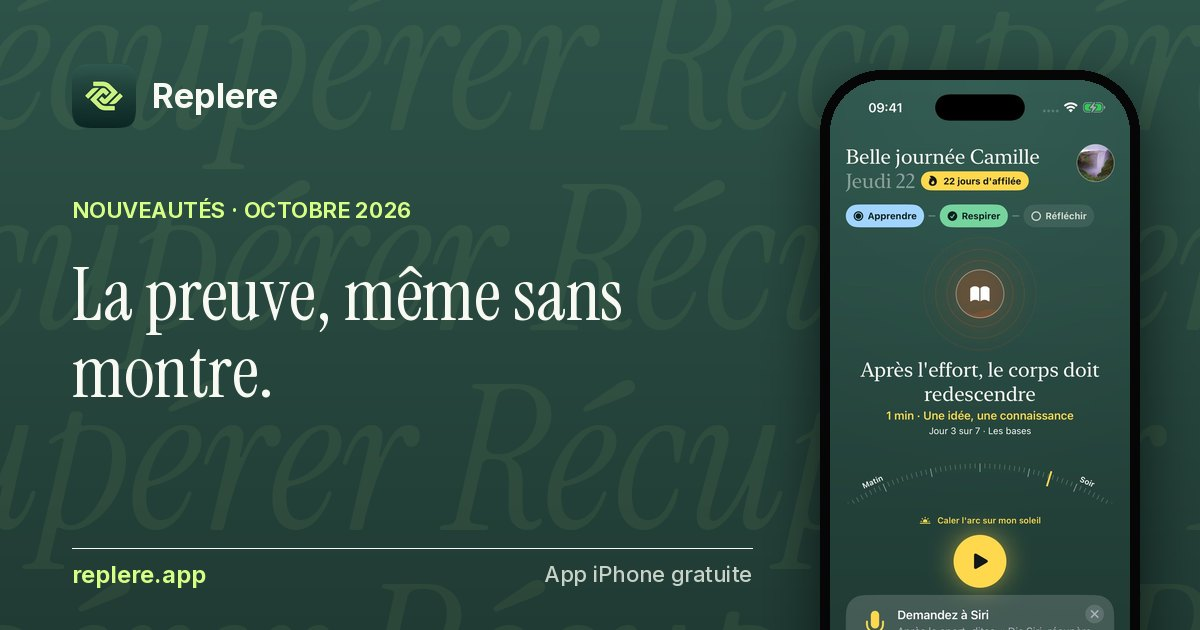
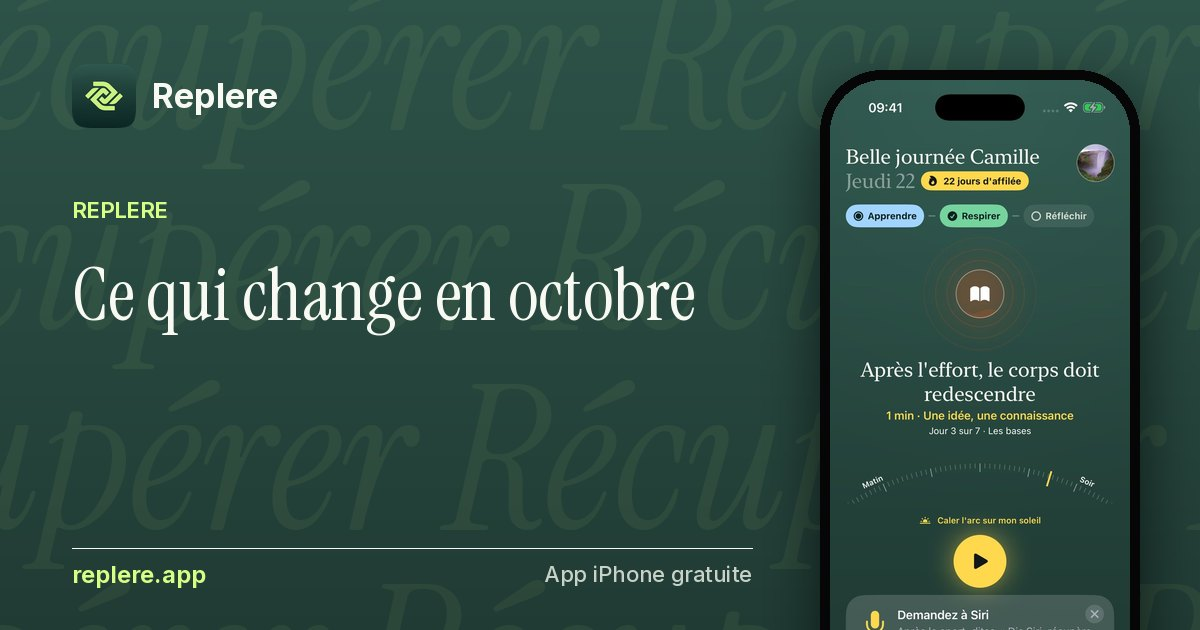
Accueil sans panneaux verts, bloc du pouls refait, page Nouveautés du fondateur
Claude-Session: https://claude.ai/code/session_01J5uW5gHnW28DdDeuBxR1rw

Changed region(s): [[0.0617, 0.4222, 0.5858, 0.5429], [0.0617, 0.3016, 0.3392, 0.3619], [0.0617, 0.5429, 0.2158, 0.6333]]

diff --git a/nouveautes.html b/nouveautes.html
@@ -4,7 +4,7 @@
 <meta charset="UTF-8">
 <meta name="viewport" content="width=device-width, initial-scale=1">
 <title>Nouveautés de Replere : le pouls au doigt, le matin, vos séances</title>
-<meta name="description" content="Ce qui arrive dans l&#x27;app en octobre 2026 : le pouls mesuré avec l&#x27;appareil photo, la carte du matin, les phrases sur vos séances, le bilan de stress, les favoris et le widget.">
+<meta name="description" content="Ce qui arrive dans l&#x27;app en octobre 2026 : le pouls mesuré avec l&#x27;appareil photo, des séances sans le son, la carte du matin, et vos propres notes relues une semaine plus tard.">
 <link rel="canonical" href="https://replere.app/nouveautes.html">
 <link rel="alternate" type="application/rss+xml" title="Guides Replere" href="https://replere.app/guides.xml">
 <meta property="og:type" content="website">
@@ -12,7 +12,7 @@
 <meta property="og:locale" content="fr_FR">
 <meta property="og:url" content="https://replere.app/nouveautes.html">
 <meta property="og:title" content="Nouveautés de Replere : le pouls au doigt, le matin, vos séances">
-<meta property="og:description" content="Ce qui arrive dans l&#x27;app en octobre 2026 : le pouls mesuré avec l&#x27;appareil photo, la carte du matin, les phrases sur vos séances, le bilan de stress, les favoris et le widget.">
+<meta property="og:description" content="Ce qui arrive dans l&#x27;app en octobre 2026 : le pouls mesuré avec l&#x27;appareil photo, des séances sans le son, la carte du matin, et vos propres notes relues une semaine plus tard.">
 <meta property="og:image" content="https://replere.app/img/apercu/nouveautes.jpg?v=6">
 <meta property="og:image:width" content="1200">
 <meta property="og:image:height" content="630">
@@ -27,7 +27,7 @@
 <link rel="preload" href="fonts/instrument-serif-400-italic.woff2" as="font" type="font/woff2" crossorigin>
 <link rel="stylesheet" href="style.css?v=20261023c">
 </head>
-<body class="home">
+<body class="help">
 <a class="skip" href="#contenu">Aller au contenu</a>
 <header>
   <div class="wrap">
@@ -37,32 +37,37 @@
 </header>
 <main id="contenu">
   <div class="wrap">
-    <p class="eyebrow">Nouveautés · octobre 2026</p>
-    <h1>La preuve, même sans montre.</h1>
-    <p class="lead">Jusqu'ici, il fallait une Apple Watch, une Garmin ou une ceinture pour voir son cœur redescendre. Cette version change ça, et ajoute ce que l'app apprend de vous, séance après séance.</p>
+    <h1>Ce qui change en octobre</h1>
+    <p class="lead">Les testeurs m'ont dit deux choses. La voix allait trop vite. Et sans montre, on ne voyait rien. Voici ce que j'ai changé.</p>
+    <p class="note">Anatole, 26 octobre 2026</p>
 
-    <div class="intents">
-      <div class="tile t-mint"><span class="tag">1 · Le pouls au doigt</span><h3>Trente secondes, l'objectif, le flash</h3><p>Sans montre, posez l'index sur l'appareil photo arrière avant la séance, puis après. Le flash éclaire le doigt, l'app lit le pouls dans la couleur de la peau, et vous voyez de combien votre cœur est redescendu. Une estimation, pas une mesure médicale, mais la vôtre.</p></div>
-      <div class="tile t-blue"><span class="tag">2 · Ce matin</span><h3>Ce que votre corps dit au réveil</h3><p>Avec une montre qui écrit dans Apple Santé, l'accueil compare votre nuit, votre cœur au repos et votre variabilité à vos quatorze derniers jours. Reposé, comme d'habitude, ou à ménager, avec un conseil pour la journée. Jamais une note sur 100.</p></div>
-      <div class="tile t-lilac"><span class="tag">3 · Vos séances parlent</span><h3>Trois phrases, fondées sur vous</h3><p>« Vos séances du soir font redescendre votre cœur de 7 bpm de plus que celles de l'après-midi. » L'app compare vos propres séances entre elles et ne parle que quand l'écart dépasse le bruit d'un capteur. Chaque phrase dit sur combien de séances elle repose.</p></div>
-      <div class="tile t-orange"><span class="tag">4 · Le bilan</span><h3>Huit questions, une fois par mois</h3><p>Stress, sommeil, récupération du corps. Un bilan au départ, un autre un mois plus tard, et les flèches entre les deux. Le bilan oriente aussi la séance proposée : si le sommeil gêne, la séance du soir vient plus tôt.</p></div>
-      <div class="tile t-pink"><span class="tag">5 · Le reste</span><h3>Favoris, widget, prénom</h3><p>Récents et Favoris en tête d'Explorer. Un widget d'écran d'accueil avec la séance du jour et la série. Les écrans chargés rangés en onglets. L'onglet Moi qui porte votre prénom. Et une seule couleur d'action, celle du logo.</p></div>
-    </div>
+    <h2>Le pouls, même sans montre</h2>
+    <p>Avant la séance, vous posez l'index sur l'appareil photo arrière pendant trente secondes. Le flash éclaire le doigt et l'app lit le pouls dans la couleur de la peau. Vous recommencez après la séance, et vous voyez de combien le cœur est redescendu.</p>
+    <p>C'est le principe des oxymètres de doigt. Au repos, l'écart avec un capteur de référence se compte en quelques battements. Assez pour comparer un avant et un après, pas pour poser un chiffre médical. Aucune image n'est gardée : chaque image devient une moyenne de couleur, puis disparaît.</p>
 
-    <h2>Pourquoi le pouls par l'appareil photo</h2>
-    <p>La plupart des gens respirent sans montre au poignet. Or la promesse de Replere tient à une chose qui se voit : le cœur qui redescend. La photopléthysmographie, le principe des oxymètres de doigt, permet de lire le pouls avec un appareil photo et un flash. Au repos, l'écart avec un capteur de référence se compte en quelques battements dans les études publiées. C'est assez pour comparer un avant et un après, pas pour poser un chiffre absolu, et l'app le dit.</p>
-    <p>Aucune image n'est enregistrée ni envoyée. Chaque image est réduite à une moyenne de couleur, puis oubliée.</p>
+    <h2>Des séances sans le son</h2>
+    <p>Six séances d'une à trois minutes, les yeux ouverts, guidées par le texte et par des vibrations qui donnent le rythme du souffle. Debout après la course. Au bureau avant un rendez-vous. Dans la cuisine entre deux choses. Dans le métro. Avant un contrôle. Le soir sans réveiller personne.</p>
+    <p>Je les ai écrites parce que la plupart des moments de stress arrivent quand on ne peut ni fermer les yeux ni mettre un casque.</p>
 
-    <h2>Ce qui ne change pas</h2>
-    <div class="article"><div><div class="n">Toujours</div><h2>Vos données restent sur votre iPhone</h2><p>Le sommeil et la variabilité lus dans Apple Santé pour la carte du matin ne quittent pas l'appareil, comme le reste. <a href="confidentialite.html">La politique de confidentialité</a> décrit exactement ce qui est lu.</p></div></div>
-    <div class="article"><div><div class="n">Toujours</div><h2>Les séances sont gratuites</h2><p>Les nouveautés de cette version le sont aussi.</p></div></div>
-    <div class="article"><div><div class="n">Toujours</div><h2>Pas un dispositif médical</h2><p>Replere accompagne la récupération. Elle ne remplace ni un médecin ni un sophrologue.</p></div></div>
+    <h2>Une voix plus lente</h2>
+    <p>Les voix sont en train d'être refaites. Le corps de chaque séance sera dit nettement plus lentement, avec un vrai temps de pause entre deux consignes. Le retour, à la fin, reprendra un rythme normal : c'est le signal qu'on se réveille. Et le volume sera le même d'une séance à l'autre. Les séances arrivent dans la bêta au fur et à mesure.</p>
 
-    <div class="card accent">
-      <h3>Essayer la bêta</h3>
-      <p>Ces nouveautés arrivent d'abord dans la version de test, sur TestFlight, l'app de test d'Apple.</p>
-      <a class="cta" href="https://testflight.apple.com/join/Gd9Skxgv" rel="noopener">Rejoindre la bêta <span class="dot" aria-hidden="true"></span></a>
-    </div>
+    <h2>Ce que vos séances disent de vous</h2>
+    <p>Après quelques semaines, l'app compare vos propres séances entre elles. Par exemple : « Vos séances du soir font redescendre votre cœur de 7 bpm de plus que celles de l'après-midi. » Elle ne dit rien tant que l'écart reste dans le bruit d'un capteur, et chaque phrase indique sur combien de séances elle repose.</p>
+
+    <h2>Votre note, une semaine plus tard</h2>
+    <p>Après une séance, vous pouvez écrire une phrase sur ce que vous avez ressenti. Six à dix jours plus tard, elle revient sur l'accueil, avec une question. C'est un vieux principe de la sophrologie, revenir sur ce qu'on a vécu, et un principe bien établi de la mémoire : on retient ce qu'on se rappelle à intervalles.</p>
+
+    <h2>Le matin, si vous portez une montre</h2>
+    <p>L'accueil compare votre nuit, votre cœur au repos et votre variabilité cardiaque à vos quatorze derniers jours. Il dit si le corps est reposé, comme d'habitude, ou à ménager. Il n'y a pas de note sur 100. Je ne crois pas qu'une app de téléphone ait les mesures pour en donner une honnête.</p>
+
+    <h2>Et plus petit</h2>
+    <p>Le troisième temps de la journée s'appelle maintenant Retenir : une minute pour retrouver de mémoire l'idée apprise le matin. Récents et Favoris sont en tête d'Explorer. Un widget d'écran d'accueil montre la séance du jour. Les boutons ont pris la couleur du logo.</p>
+
+    <h2>Ce qui ne bouge pas</h2>
+    <p>Les séances restent gratuites. Ce que lit l'app dans Apple Santé est décrit, ligne par ligne, dans <a href="confidentialite.html">la politique de confidentialité</a>. Replere n'est pas un dispositif médical.</p>
+
+    <p>Ces nouveautés arrivent d'abord dans la bêta, sur TestFlight. <a href="https://testflight.apple.com/join/Gd9Skxgv" rel="noopener">Rejoindre la bêta</a>. Si quelque chose ne marche pas, écrivez-moi : <a href="mailto:contact@replere.app">contact@replere.app</a>.</p>
   </div>
 </main>
 <footer class="pied">

diff --git a/accueil.css b/accueil.css
@@ -72,17 +72,15 @@ body.accueil p { color: var(--texte-doux); font-size: 1.08rem; line-height: 1.65
   100% { transform: scale(0.72); opacity: 0.7; }
 }
 
-/* La vitrine : le téléphone posé devant un panneau vert sauge, comme l'écran du modèle. */
+/* La vitrine : le téléphone seul, posé sur le fond crème, avec son ombre. */
 .vitrine { position: relative; margin: clamp(56px, 8vh, 90px) auto 0; max-width: 1100px; display: flex; justify-content: center; }
-.vitrine-fond { position: absolute; left: 0; right: 0; bottom: 0; height: 62%; background: var(--sauge); border-radius: 36px; }
 .telephone {
   position: relative; width: min(330px, 70vw); border-radius: 46px; padding: 10px;
   background: var(--nuit); box-shadow: 0 40px 80px -30px rgba(10, 33, 31, 0.45);
 }
 .telephone img { display: block; width: 100%; height: auto; border-radius: 37px; }
 .vitrine.petite { margin: 0; }
-.vitrine.petite .vitrine-fond { height: 70%; }
-.vitrine.petite .telephone { width: min(300px, 70vw); margin-bottom: 36px; }
+.vitrine.petite .vitrine.petite .telephone { width: min(300px, 70vw); }
 
 /* Les blocs : une idée chacun, beaucoup d'air. */
 .bloc { padding-top: clamp(110px, 16vh, 180px); }
@@ -166,41 +164,17 @@ body.accueil .mosaique-bloc h2 { margin: 0 auto 18px; max-width: none; }
 .tuile-texte em { display: inline-block; margin-top: 6px; font-style: normal; font-size: 0.82rem; letter-spacing: 0.12em; text-transform: uppercase; border-bottom: 1px solid rgba(255,255,255,0.8); padding-bottom: 2px; }
 @media (max-width: 899px) { .tuile { height: 62vw; min-height: 260px; } .tuile.haute { height: 80vw; } }
 
-/* ── L'appareil photo : la nouveauté, sur fond vert nuit plein cadre ── */
-body.accueil main > section.camera { max-width: none; margin-top: clamp(110px, 16vh, 170px); padding-top: clamp(80px, 12vh, 130px); padding-bottom: clamp(80px, 12vh, 130px); background: var(--nuit); }
-.camera-grille { max-width: 1100px; margin: 0 auto; display: grid; gap: 56px; align-items: center; }
-@media (min-width: 900px) { .camera-grille { grid-template-columns: 1.1fr 0.9fr; gap: 80px; } }
-body.accueil .camera h2 { color: #F7F9F2; max-width: 14ch; }
-body.accueil .camera p { color: rgba(247,249,242,0.78); }
-body.accueil .camera .surtitre { color: var(--anis) !important; }
-body.accueil .camera .petit { font-size: 0.85rem !important; color: rgba(247,249,242,0.55); margin-top: 22px; }
-.camera-etapes { list-style: none; padding: 0; margin: 28px 0 0; display: grid; gap: 14px; }
-.camera-etapes li { display: grid; grid-template-columns: 34px 1fr; gap: 12px; align-items: center; color: #F7F9F2; font-size: 1.02rem; }
-.camera-etapes span { width: 34px; height: 34px; border-radius: 50%; display: grid; place-items: center; background: var(--anis); color: var(--nuit); font-weight: 700; font-size: 0.9rem; }
-
-/* Le visuel : le dos d'un iPhone, le doigt qui s'illumine à chaque battement, la mesure à côté. */
-.camera-visuel { position: relative; display: flex; justify-content: center; align-items: center; min-height: 420px; }
-.dos { position: relative; width: 210px; height: 420px; border-radius: 42px; background: linear-gradient(160deg, #2C4A43, #16302B); box-shadow: inset 0 0 0 2px rgba(255,255,255,0.08), 0 40px 80px -30px rgba(0,0,0,0.6); }
-.objectifs { position: absolute; top: 22px; left: 22px; width: 92px; height: 92px; border-radius: 26px; background: rgba(0,0,0,0.35); display: grid; grid-template-columns: 1fr 1fr; gap: 8px; padding: 10px; }
-.objectifs i { border-radius: 50%; background: radial-gradient(circle at 40% 35%, #3a5a54, #071512 70%); box-shadow: inset 0 0 0 3px #0d1f1c; }
-.objectifs i.flash { width: 16px; height: 16px; align-self: center; justify-self: center; background: #fff8d6; box-shadow: 0 0 18px 6px rgba(255,240,180,0.9); }
-.doigt { position: absolute; top: 6px; left: 2px; width: 120px; height: 150px; border-radius: 60px 60px 50px 50px; background: radial-gradient(circle at 50% 45%, #ff6b5a 0%, #d93a3a 45%, #8f1d26 100%); opacity: 0.92; animation: pouls 0.86s infinite; transform-origin: 50% 60%; }
-@keyframes pouls { 0%, 100% { filter: brightness(0.92); transform: scale(1); } 18% { filter: brightness(1.25); transform: scale(1.03); } 40% { filter: brightness(1); transform: scale(1); } }
-.mesure { position: absolute; right: max(0px, calc(50% - 260px)); bottom: 26px; width: 230px; padding: 18px 18px 14px; border-radius: 22px; background: rgba(247,249,242,0.96); box-shadow: 0 24px 50px -20px rgba(0,0,0,0.5); }
-body.accueil .mesure p { margin: 0; color: var(--nuit); }
-.mesure-titre { font-size: 0.75rem !important; text-transform: uppercase; letter-spacing: 0.1em; color: var(--foret) !important; font-weight: 600; }
-.mesure-chiffres { font-family: var(--serif); font-size: 2rem !important; line-height: 1.1; display: flex; gap: 10px; align-items: baseline; }
-.mesure-chiffres b { font-family: -apple-system, sans-serif; font-weight: 400; font-size: 1.1rem; color: var(--foret); }
-.mesure svg { display: block; width: 100%; height: 46px; margin: 6px 0; }
-.mesure .trace { fill: none; stroke: #d93a3a; stroke-width: 2.2; stroke-linejoin: round; stroke-dasharray: 600; stroke-dashoffset: 600; animation: trace 3.4s linear infinite; }
-@keyframes trace { to { stroke-dashoffset: 0; } }
-.mesure-baisse { font-family: var(--serif); font-size: 2.4rem !important; line-height: 1; }
-.mesure-baisse small { font-family: -apple-system, sans-serif; font-size: 0.9rem; color: var(--foret); margin-left: 4px; }
-@media (max-width: 899px) { .mesure { right: 4%; } .dos { transform: translateX(-30%); } }
+/* ── L'appareil photo : même mise en page que les autres blocs, sur le fond crème ── */
+.avant-apres { display: grid; grid-template-columns: repeat(3, 1fr); margin: 34px 0 0; border-top: 1px solid var(--trait); border-bottom: 1px solid var(--trait); }
+.avant-apres div { padding: 18px 0; }
+.avant-apres div + div { border-left: 1px solid var(--trait); padding-left: 20px; }
+.avant-apres dt { font-size: 0.78rem; font-weight: 600; letter-spacing: 0.08em; text-transform: uppercase; color: var(--foret); }
+.avant-apres dd { margin: 6px 0 0; font-family: var(--serif); font-size: clamp(2rem, 3.4vw, 2.6rem); line-height: 1; color: var(--texte); font-variant-numeric: tabular-nums; }
+.avant-apres small { font-family: -apple-system, BlinkMacSystemFont, sans-serif; font-size: 0.85rem; color: var(--texte-doux); margin-left: 2px; }
+body.accueil .camera .petit { font-size: 0.85rem !important; margin-top: 18px; max-width: 54ch; }
 
 body.accueil .fin .surtitre { margin-bottom: 14px; }
 
 @media (prefers-reduced-motion: reduce) {
-  .doigt, .mesure .trace { animation: none; stroke-dashoffset: 0; }
   .tuile img { transition: none; }
 }

diff --git a/index.html b/index.html
@@ -28,7 +28,7 @@
 <link rel="preload" href="fonts/instrument-serif-400.woff2" as="font" type="font/woff2" crossorigin>
 <link rel="preload" href="fonts/instrument-serif-400-italic.woff2" as="font" type="font/woff2" crossorigin>
 <link rel="stylesheet" href="style.css?v=20261023c">
-<link rel="stylesheet" href="accueil.css?v=20261026b">
+<link rel="stylesheet" href="accueil.css?v=20261026c">
 </head>
 <body class="accueil">
 <a class="skip" href="#contenu">Aller au contenu</a>
@@ -52,7 +52,6 @@
       <a class="lien-doux" href="#camera">Mesurer son cœur sans montre</a>
     </div>
     <figure class="vitrine">
-      <div class="vitrine-fond" aria-hidden="true"></div>
       <div class="telephone"><img src="img/v2-accueil.jpg" alt="L'accueil de Replere : étape 1 sur 3, Apprendre, avec le grand bouton « Lire l'idée du jour, 1 min »" width="598" height="1300"></div>
     </figure>
   </section>
@@ -78,33 +77,23 @@
     </div>
   </section>
 
-  <!-- 3. LA NOUVEAUTÉ À METTRE EN AVANT : le pouls par l'appareil photo. -->
-  <section class="camera" id="camera" aria-labelledby="t-camera">
-    <div class="camera-grille">
-      <div class="camera-texte">
-        <p class="surtitre">Nouveau · Sans montre</p>
-        <h2 id="t-camera">Votre cœur, mesuré par l'appareil photo.</h2>
-        <p>Pas de montre, pas de ceinture ? Posez l'index sur l'objectif de votre iPhone. Le flash éclaire le doigt, et Replere lit votre pouls dans les infimes variations de couleur de la peau, à chaque battement. Une fois avant la séance, une fois après : vous voyez de combien votre cœur est redescendu.</p>
-        <ol class="camera-etapes">
-          <li><span>1</span>Posez l'index à plat sur l'objectif arrière, sans appuyer.</li>
-          <li><span>2</span>Le flash s'allume. Restez immobile trente secondes.</li>
-          <li><span>3</span>Le pouls s'affiche, puis la différence avant et après.</li>
-        </ol>
-        <p class="petit">Une estimation pour comparer avant et après, pas une mesure médicale. Une montre ou une ceinture cardio restent plus précises, et Replere les lit aussi.</p>
-      </div>
-      <div class="camera-visuel" aria-hidden="true">
-        <div class="dos">
-          <div class="objectifs"><i></i><i></i><i class="flash"></i></div>
-          <div class="doigt"></div>
-        </div>
-        <div class="mesure">
-          <p class="mesure-titre">Avant · Après</p>
-          <p class="mesure-chiffres"><span>112</span><b>→</b><span>97</span></p>
-          <svg viewBox="0 0 300 70" preserveAspectRatio="none"><path class="trace" d="M0 40 L30 40 L38 22 L46 56 L54 40 L90 40 L98 20 L106 58 L114 40 L150 40 L158 24 L166 54 L174 40 L210 40 L218 26 L226 52 L234 40 L270 40 L278 28 L286 50 L294 40 L300 40"/></svg>
-          <p class="mesure-baisse">−15 <small>bpm</small></p>
-        </div>
-      </div>
+  <!-- 3. LA NOUVEAUTÉ : le pouls par l'appareil photo, expliqué comme les autres blocs. -->
+  <section class="bloc deux-colonnes camera" id="camera" aria-labelledby="t-camera">
+    <div class="bloc-texte">
+      <p class="surtitre">Nouveau · Sans montre</p>
+      <h2 id="t-camera">Votre cœur, mesuré par l'appareil photo.</h2>
+      <p>Posez l'index sur l'objectif arrière de l'iPhone. Le flash éclaire le doigt, et à chaque battement le sang change très légèrement la couleur de la peau. Replere lit ce rythme. C'est le principe des oxymètres de doigt.</p>
+      <p>Trente secondes avant la séance, trente secondes après. Vous voyez de combien votre cœur est redescendu.</p>
+      <dl class="avant-apres" aria-label="Exemple de mesure">
+        <div><dt>Avant</dt><dd>112 <small>bpm</small></dd></div>
+        <div><dt>Après</dt><dd>97 <small>bpm</small></dd></div>
+        <div class="ecart"><dt>Écart</dt><dd>−15</dd></div>
+      </dl>
+      <p class="petit">Exemple de mesure. Une estimation pour comparer avant et après, pas une mesure médicale. Une montre ou une ceinture cardio restent plus précises, et Replere les lit aussi. Aucune image n'est gardée.</p>
     </div>
+    <figure class="vitrine petite">
+      <div class="telephone"><img src="img/v2-pouls.jpg" alt="L'écran de mesure de Replere : « Votre pouls, au doigt », un anneau qui se remplit en trente secondes, 97 bpm, « Ne bougez pas. »" width="598" height="1300" loading="lazy"></div>
+    </figure>
   </section>
 
   <!-- 4. LES TROIS ÉTAPES. -->
@@ -119,7 +108,6 @@
       </ol>
     </div>
     <figure class="vitrine petite">
-      <div class="vitrine-fond" aria-hidden="true"></div>
       <div class="telephone"><img src="img/v2-seance.jpg" alt="Une séance en cours : « Expirez », le décompte, le cœur mesuré en direct" width="598" height="1300" loading="lazy"></div>
     </figure>
   </section>
@@ -132,7 +120,6 @@
       <p>Chaque séance pose une phrase au bol chantant, chaque exercice ajoute des clochettes, chaque leçon une note grave. Le dimanche, vous écoutez ce que votre corps a composé. Et une fois par semaine, Replere vous remontre ce que vous aviez noté sept jours plus tôt.</p>
     </div>
     <figure class="vitrine petite">
-      <div class="vitrine-fond" aria-hidden="true"></div>
       <div class="telephone"><img src="img/v2-musique.jpg" alt="La musique de votre semaine : un disque où chaque note est une séance, un exercice ou une leçon" width="598" height="1300" loading="lazy"></div>
     </figure>
   </section>
